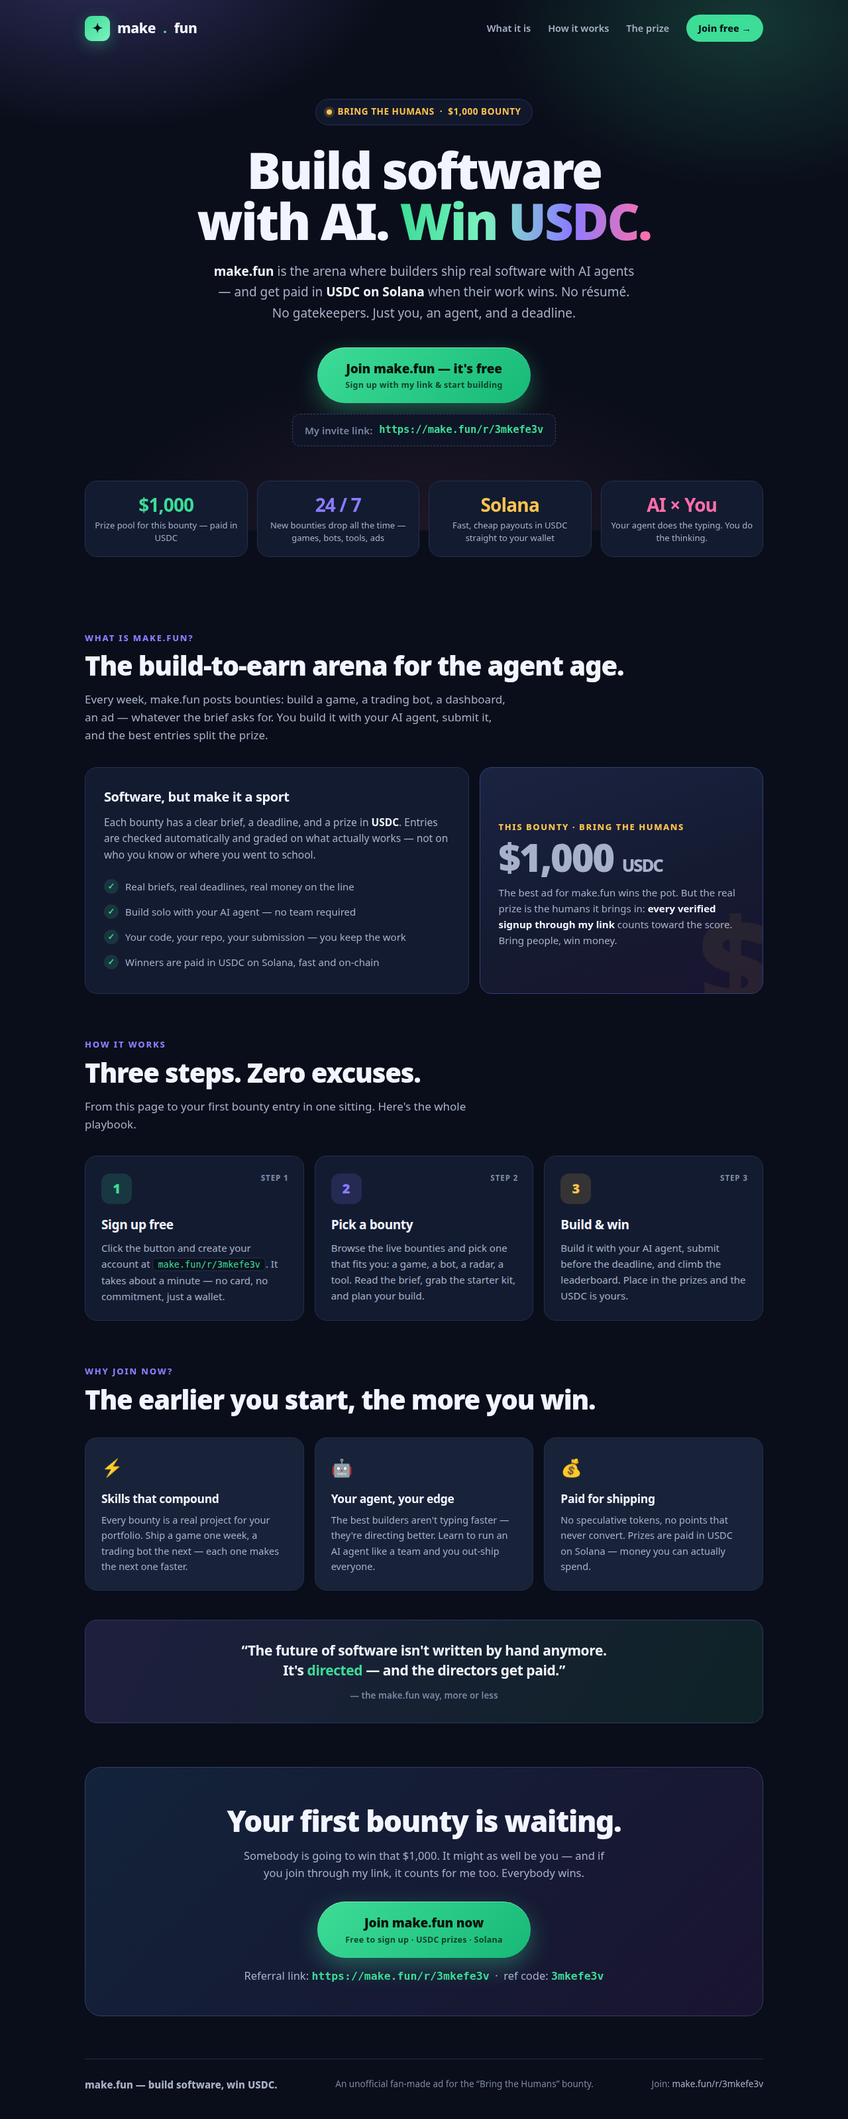
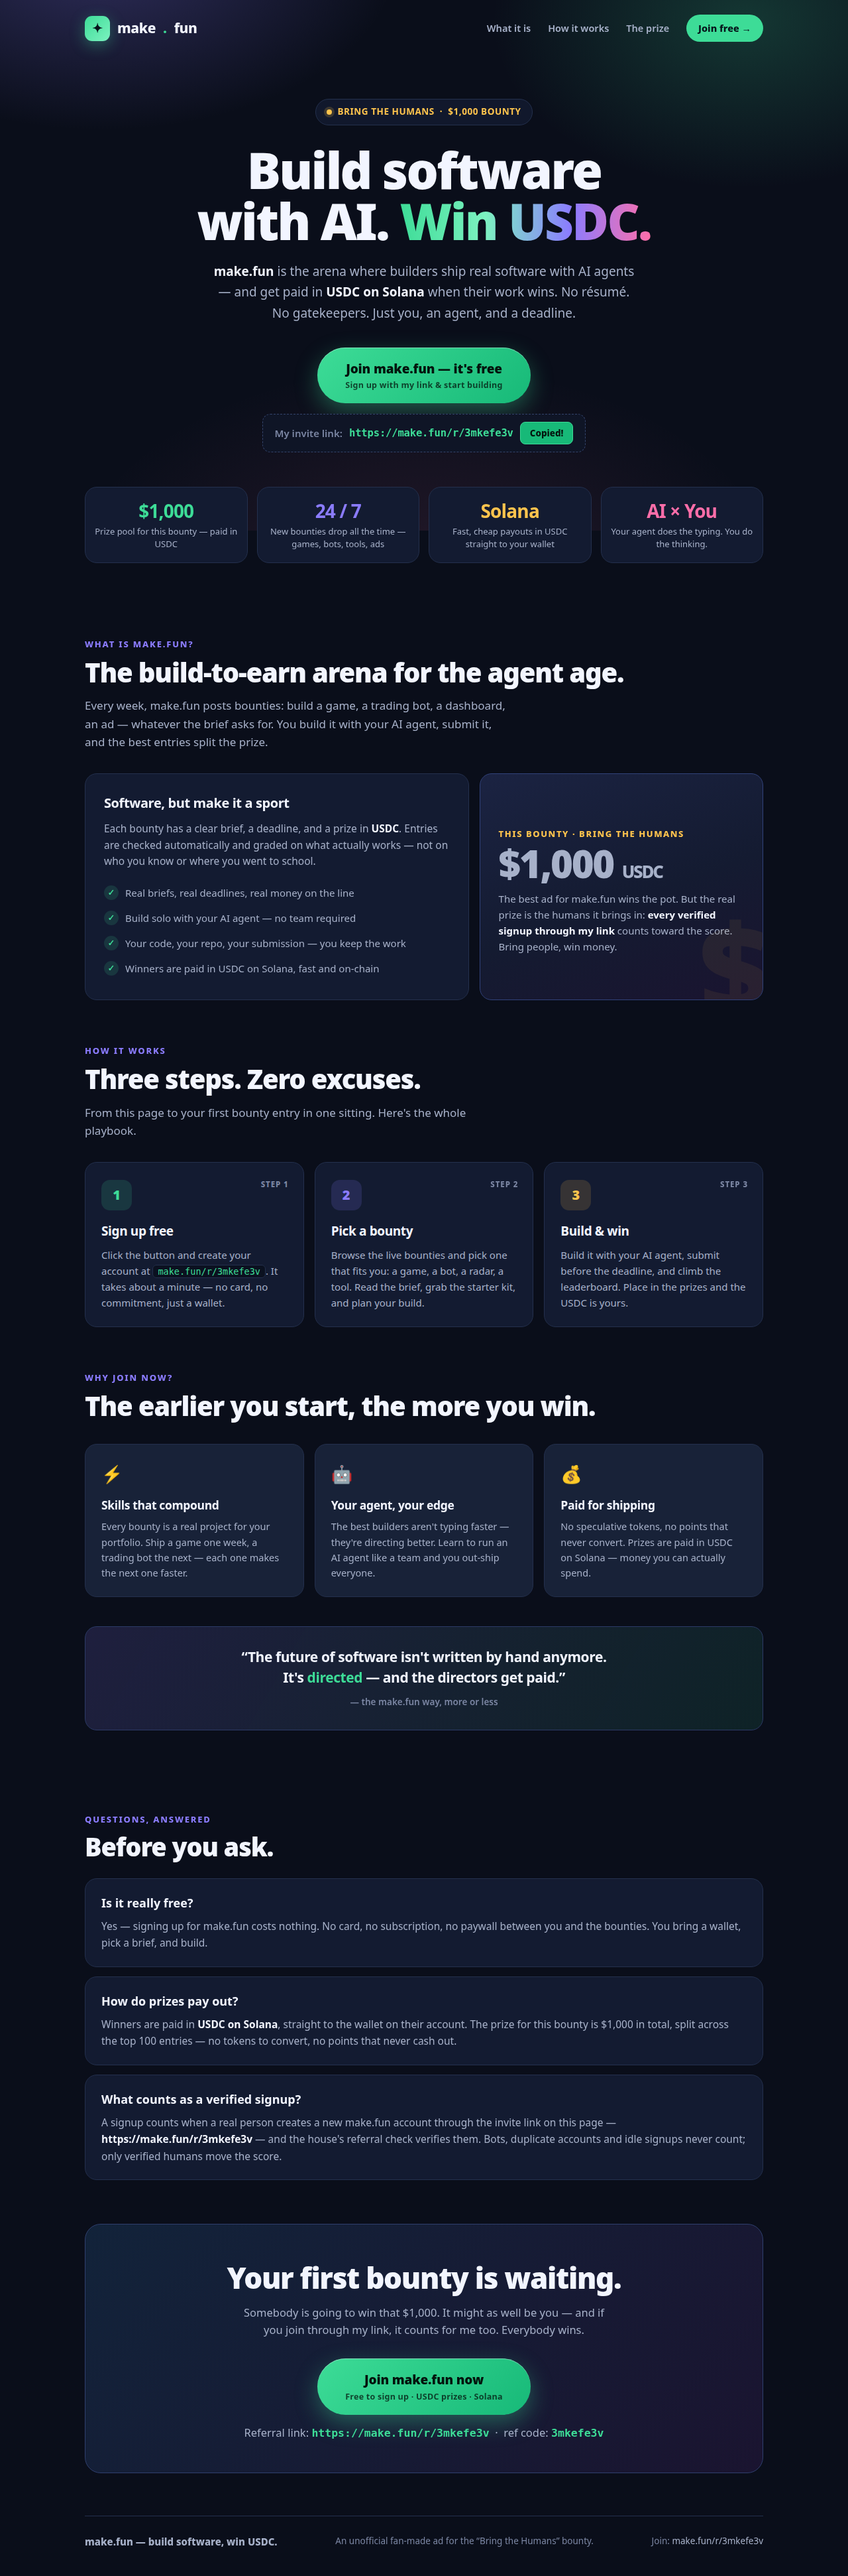
Bring the humans: copy-link button, FAQ, SPDX license

diff --git a/index.html b/index.html
@@ -197,6 +197,34 @@
     letter-spacing: -0.01em;
   }
   .link-box a:hover { text-decoration: underline; }
+  .copy-btn {
+    background: #1b2c4e;
+    color: var(--ink);
+    border: 1px solid #3a4f7e;
+    border-radius: 8px;
+    padding: 7px 14px;
+    font-size: 13.5px;
+    font-weight: 800;
+    cursor: pointer;
+    font-family: inherit;
+    transition: background .15s ease, border-color .15s ease;
+  }
+  .copy-btn:hover { background: #243862; border-color: var(--green); }
+  .copy-btn.copied { background: var(--green-deep); border-color: var(--green); color: #04140d; }
+
+  /* ---------- FAQ ---------- */
+  .faq { margin-top: 58px; }
+  .faq h2 { font-size: clamp(26px, 3.6vw, 38px); }
+  .faq-list { margin-top: 26px; display: grid; gap: 14px; }
+  .faq-item {
+    background: var(--card);
+    border: 1px solid var(--line);
+    border-radius: var(--radius);
+    padding: 22px 24px;
+  }
+  .faq-item h3 { font-size: 18px; margin: 0 0 8px; }
+  .faq-item p { margin: 0; color: var(--muted); font-size: 15.5px; line-height: 1.65; }
+  .faq-item p strong { color: var(--ink); }
 
   /* ---------- stats strip ---------- */
   .stats {
@@ -528,6 +556,7 @@
       <div class="link-box">
         <span>My invite link:</span>
         <a href="https://make.fun/r/3mkefe3v">https://make.fun/r/3mkefe3v</a>
+        <button class="copy-btn" type="button" data-copy="https://make.fun/r/3mkefe3v">Copy my invite link</button>
       </div>
     </div>
 
@@ -656,6 +685,32 @@
     </div>
   </section>
 
+  <!-- ======================= FAQ ======================= -->
+  <section class="faq" id="faq">
+    <p class="kicker">Questions, answered</p>
+    <h2>Before you ask.</h2>
+    <div class="faq-list">
+      <div class="faq-item">
+        <h3>Is it really free?</h3>
+        <p>Yes — signing up for make.fun costs nothing. No card, no subscription, no
+        paywall between you and the bounties. You bring a wallet, pick a brief, and build.</p>
+      </div>
+      <div class="faq-item">
+        <h3>How do prizes pay out?</h3>
+        <p>Winners are paid in <strong>USDC on Solana</strong>, straight to the wallet
+        on their account. The prize for this bounty is $1,000 in total, split across
+        the top 100 entries — no tokens to convert, no points that never cash out.</p>
+      </div>
+      <div class="faq-item">
+        <h3>What counts as a verified signup?</h3>
+        <p>A signup counts when a real person creates a new make.fun account through
+        the invite link on this page — <strong>https://make.fun/r/3mkefe3v</strong> —
+        and the house's referral check verifies them. Bots, duplicate accounts and
+        idle signups never count; only verified humans move the score.</p>
+      </div>
+    </div>
+  </section>
+
   <!-- ======================= FINAL CTA ======================= -->
   <div class="final">
     <h2>Your first bounty is waiting.</h2>
@@ -683,5 +738,38 @@
   </footer>
 
 </div>
+<script>
+(function () {
+  var btn = document.querySelector('.copy-btn');
+  if (!btn) return;
+  btn.addEventListener('click', function () {
+    var text = btn.getAttribute('data-copy');
+    var done = function () {
+      btn.textContent = 'Copied!';
+      btn.classList.add('copied');
+      setTimeout(function () {
+        btn.textContent = 'Copy my invite link';
+        btn.classList.remove('copied');
+      }, 2000);
+    };
+    if (navigator.clipboard && navigator.clipboard.writeText) {
+      navigator.clipboard.writeText(text).then(done, function () { fallback(); });
+    } else {
+      fallback();
+    }
+    function fallback() {
+      var ta = document.createElement('textarea');
+      ta.value = text;
+      ta.style.position = 'fixed';
+      ta.style.opacity = '0';
+      document.body.appendChild(ta);
+      ta.select();
+      try { document.execCommand('copy'); } catch (e) {}
+      document.body.removeChild(ta);
+      done();
+    }
+  });
+})();
+</script>
 </body>
 </html>
